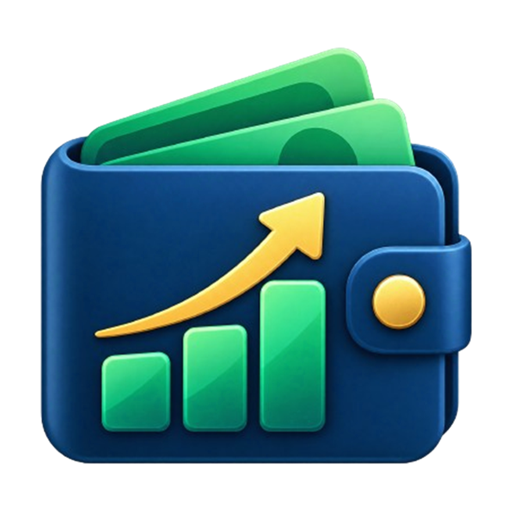
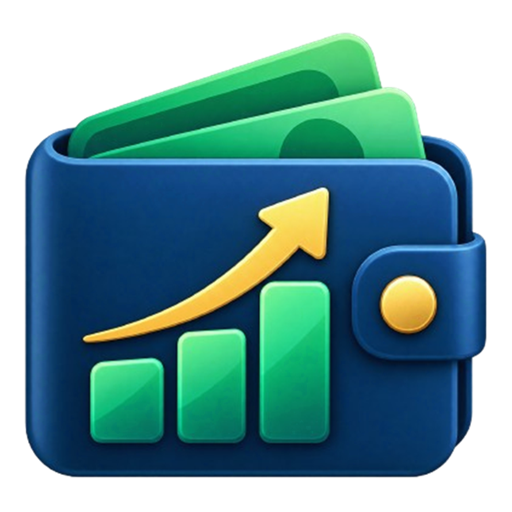
v26: icones sem fundo branco (transparente; maskable/apple com azul da carteira)

Changed region(s): [[0.0312, 0.0625, 0.9688, 0.9375], [0.6875, 0.6562, 0.7188, 0.6875]]

diff --git a/index.html b/index.html
@@ -712,7 +712,7 @@
   </section>
 </div>
 
-<footer class="verbar">Nosso Caixa · versão <b id="verMark">v25</b><br><a href="./privacidade.html">Política de Privacidade</a> · <a href="./termos.html">Termos de Uso</a></footer>
+<footer class="verbar">Nosso Caixa · versão <b id="verMark">v26</b><br><a href="./privacidade.html">Política de Privacidade</a> · <a href="./termos.html">Termos de Uso</a></footer>
 
 <div id="printArea" aria-hidden="true"></div>
 

diff --git a/sw.js b/sw.js
@@ -1,4 +1,4 @@
-const CACHE = "nosso-caixa-v25";
+const CACHE = "nosso-caixa-v26";
 const ASSETS = [
   "./",
   "./index.html",
